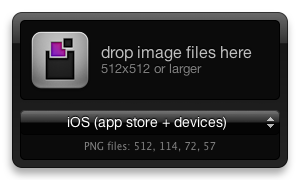
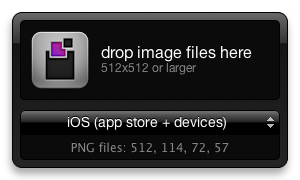
Fixed preference saving on hide

diff --git a/Iconifer.dcproj/project/widget.wdgt/main.css b/Iconifer.dcproj/project/widget.wdgt/main.css
@@ -116,7 +116,6 @@ body {
     text-overflow: ellipsis;
     overflow: hidden;
     position: absolute;
-    font-size: 8pt;
     top: 208px;
     opacity: 0.5;
     margin-top: auto;
@@ -125,6 +124,7 @@ body {
     left: 20px;
     bottom: 20px;
     width: 200px;
+    font-size: 11px;
 }
 
 #successText {
@@ -351,12 +351,13 @@ body {
     color: rgb(255, 255, 255);
     opacity: 0.5;
     width: 200px;
-    font-size: 8pt;
     line-height: 10px;
     height: 25px;
     margin-right: auto;
-    bottom: 30px;
     margin-top: auto;
+    bottom: 28px;
+    font-size: 11px;
+    letter-spacing: 0px;
 }
 
 #type {
@@ -489,7 +490,6 @@ body {
     overflow: hidden;
     position: absolute;
     letter-spacing: 0px;
-    font-size: 8pt;
     width: 50px;
     height: 15px;
     text-align: center;
@@ -500,6 +500,7 @@ body {
     right: 75px;
     margin-left: auto;
     margin-bottom: auto;
+    font-size: 11px;
 }
 
 #sharpSizeText {
@@ -507,7 +508,6 @@ body {
     text-overflow: ellipsis;
     overflow: hidden;
     position: absolute;
-    font-size: 8pt;
     width: 50px;
     height: 15px;
     text-align: center;
@@ -518,6 +518,7 @@ body {
     right: 130px;
     margin-left: auto;
     margin-bottom: auto;
+    font-size: 11px;
 }
 
 #scale {
@@ -560,7 +561,6 @@ body {
     overflow: hidden;
     position: absolute;
     letter-spacing: 0px;
-    font-size: 8pt;
     width: 50px;
     height: 15px;
     text-align: center;
@@ -571,6 +571,7 @@ body {
     right: 20px;
     margin-left: auto;
     margin-bottom: auto;
+    font-size: 11px;
 }
 
 #sharpThresh {

diff --git a/Iconifer.wdgt/main.css b/Iconifer.wdgt/main.css
@@ -116,7 +116,6 @@ body {
     text-overflow: ellipsis;
     overflow: hidden;
     position: absolute;
-    font-size: 8pt;
     top: 208px;
     opacity: 0.5;
     margin-top: auto;
@@ -125,6 +124,7 @@ body {
     left: 20px;
     bottom: 20px;
     width: 200px;
+    font-size: 11px;
 }
 
 #successText {
@@ -351,12 +351,13 @@ body {
     color: rgb(255, 255, 255);
     opacity: 0.5;
     width: 200px;
-    font-size: 8pt;
     line-height: 10px;
     height: 25px;
     margin-right: auto;
-    bottom: 30px;
     margin-top: auto;
+    bottom: 28px;
+    font-size: 11px;
+    letter-spacing: 0px;
 }
 
 #type {
@@ -489,7 +490,6 @@ body {
     overflow: hidden;
     position: absolute;
     letter-spacing: 0px;
-    font-size: 8pt;
     width: 50px;
     height: 15px;
     text-align: center;
@@ -500,6 +500,7 @@ body {
     right: 75px;
     margin-left: auto;
     margin-bottom: auto;
+    font-size: 11px;
 }
 
 #sharpSizeText {
@@ -507,7 +508,6 @@ body {
     text-overflow: ellipsis;
     overflow: hidden;
     position: absolute;
-    font-size: 8pt;
     width: 50px;
     height: 15px;
     text-align: center;
@@ -518,6 +518,7 @@ body {
     right: 130px;
     margin-left: auto;
     margin-bottom: auto;
+    font-size: 11px;
 }
 
 #scale {
@@ -560,7 +561,6 @@ body {
     overflow: hidden;
     position: absolute;
     letter-spacing: 0px;
-    font-size: 8pt;
     width: 50px;
     height: 15px;
     text-align: center;
@@ -571,6 +571,7 @@ body {
     right: 20px;
     margin-left: auto;
     margin-bottom: auto;
+    font-size: 11px;
 }
 
 #sharpThresh {

diff --git a/Iconifer.dcproj/project/widget.wdgt/main.js b/Iconifer.dcproj/project/widget.wdgt/main.js
@@ -34,7 +34,7 @@ function remove()
 function hide()
 {
 	// Stop any timers to prevent CPU usage
-	savePrefs();
+	updatePrefs();
 }
 
 //
@@ -153,12 +153,6 @@ function loadPrefs() {
 	document.getElementById("scale").object.setSelectedIndex(prefScale);
 //	document.getElementById("output").object.setSelectedIndex(prefOutput);
 	updateFeedback();
-}
-
-function savePref(key,value) {
-	if (window.widget) {
-		widget.setPreferenceForKey(value,wid+key);
-	}
 }
 
 function updatePrefs() {
@@ -558,10 +552,10 @@ function versionCheckEnd(request){
 			document.getElementById("newVersion").innerHTML = "version "+versions[0]+"<br/>"+versions[1];
 			return showUpdate();
 		} else {
-			alert("you have an up to date version");
+//			alert("you have an up to date version");
 		}
 	} else {
-		alert("there's been an error fetching HTTP data");
+//		alert("there's been an error fetching HTTP data");
 	}
 }
 

diff --git a/Iconifer.wdgt/main.js b/Iconifer.wdgt/main.js
@@ -34,7 +34,7 @@ function remove()
 function hide()
 {
 	// Stop any timers to prevent CPU usage
-	savePrefs();
+	updatePrefs();
 }
 
 //
@@ -153,12 +153,6 @@ function loadPrefs() {
 	document.getElementById("scale").object.setSelectedIndex(prefScale);
 //	document.getElementById("output").object.setSelectedIndex(prefOutput);
 	updateFeedback();
-}
-
-function savePref(key,value) {
-	if (window.widget) {
-		widget.setPreferenceForKey(value,wid+key);
-	}
 }
 
 function updatePrefs() {
@@ -558,10 +552,10 @@ function versionCheckEnd(request){
 			document.getElementById("newVersion").innerHTML = "version "+versions[0]+"<br/>"+versions[1];
 			return showUpdate();
 		} else {
-			alert("you have an up to date version");
+//			alert("you have an up to date version");
 		}
 	} else {
-		alert("there's been an error fetching HTTP data");
+//		alert("there's been an error fetching HTTP data");
 	}
 }
 

diff --git a/Iconifer.dcproj/project/widget.wdgt/en.lproj/localizedStrings.js b/Iconifer.dcproj/project/widget.wdgt/en.lproj/localizedStrings.js
@@ -9,7 +9,6 @@ var localizedStrings = {
     "done": "done",
     "download": "download",
     "drop": "drop image files here",
-    "drop1": "drop image files here",
     "dropDetail": "512x512 or larger",
     "fail": "file processing failed\nplease try again",
     "feedback": "PNG files: 512, 114, 72, 57",
@@ -32,6 +31,7 @@ var localizedStrings = {
     "successDetails": "this could take a minute\ndepending on image size",
     "wrong": "wrong file format\nplease try again"
 };
+
 
 
 

diff --git a/Iconifer.wdgt/en.lproj/localizedStrings.js b/Iconifer.wdgt/en.lproj/localizedStrings.js
@@ -9,7 +9,6 @@ var localizedStrings = {
     "done": "done",
     "download": "download",
     "drop": "drop image files here",
-    "drop1": "drop image files here",
     "dropDetail": "512x512 or larger",
     "fail": "file processing failed\nplease try again",
     "feedback": "PNG files: 512, 114, 72, 57",
@@ -32,6 +31,7 @@ var localizedStrings = {
     "successDetails": "this could take a minute\ndepending on image size",
     "wrong": "wrong file format\nplease try again"
 };
+
 
 
 
